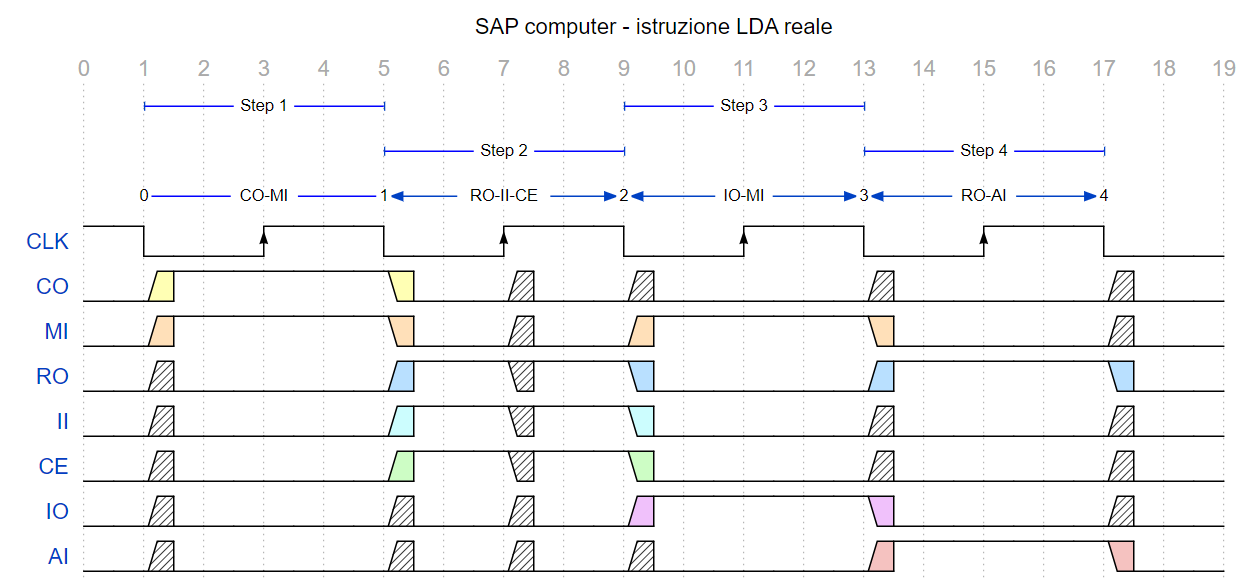
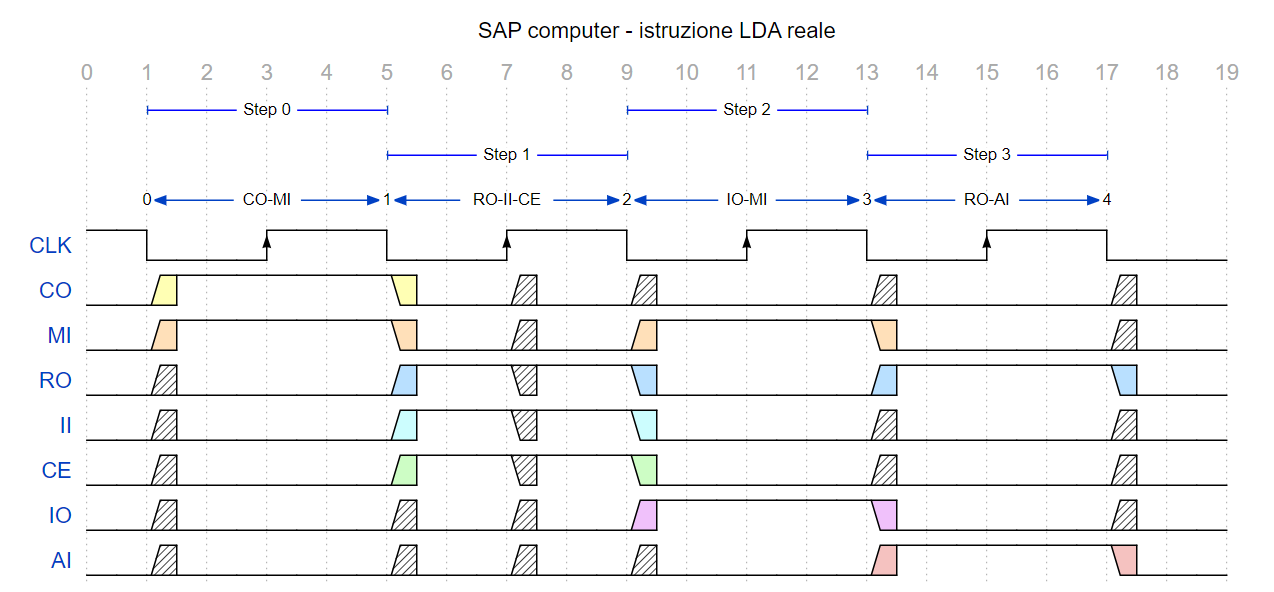
Up0date LDA reale

diff --git a/docs/_docs/40-control.md b/docs/_docs/40-control.md
@@ -249,7 +249,6 @@ Si può notare che tutti i cambi di stato dei segnali avvengono in corrispondenz
 
 [![SAP computer - istruzione LDA ideale](../../assets/control/40-wavedrom-sap-lda-ideale.png "SAP computer - istruzione LDA ideale"){:width="90%"}](../../assets/control/40-wavedrom-sap-lda-ideale.png)
 
-![Alt text](image.png)
 *SAP computer - istruzione LDA ideale*.
 
 Questo è quando accade in un mondo ideale.
@@ -261,11 +260,52 @@ Il grafico cambia decisamente aspetto andando ad aggiungere i segnali spuri dovu
 
 In tutti questi momenti di variazione degli indirizzi di ingresso delle EEPROM, i segnali in uscita sono instabili.
 
+![Alt text](image.png)
+
 [![SAP computer - istruzione LDA reale](../../assets/control/40-wavedrom-sap-lda-reale.png "SAP computer - istruzione LDA reale"){:width="90%"}](../../assets/control/40-wavedrom-sap-lda-reale.png)
 
-Tutti questi segnali spuri generalmente non sono un problema per il SAP, perché le microistruzioni scrivono su registri tipo D <a href="https://www.ti.com/lit/ds/sdls067a/sdls067a.pdf" target="_blank">74LS173</a> attivati al Rising Edge, quando i segnali hanno avuto tempo a sufficienza per stabilizzarsi. Ad esempio, il glitching del segnale MI non è fonte di problemi, perché il 173 memorizza nuovi valori con il segnale attivo **e** il Rising Edge, cioè quando MI è ormai stabile e non c'è rischio di caricare dati non corretti.
+Tutti questi segnali spuri generalmente non sono un problema per il SAP, perché le microistruzioni scrivono su registri tipo D <a href="https://www.ti.com/lit/ds/sdls067a/sdls067a.pdf" target="_blank">74LS173</a> attivati al Rising Edge, quando i segnali hanno avuto tempo a sufficienza per stabilizzarsi. Ad esempio, il glitching di MI non è fonte di problemi, perché il '173 memorizza nuovi valori con MI attivo ***e*** il Rising Edge del clock, cioà quando il segnale è ormai stabile e non c'è rischio di caricare dati non corretti.
+
+Possiamo riprendere ora la domanda segnalata in precedenza in questa sezione: Quali sono le possibili conseguenze del caricamento dell'IR al Rising Edge del clock?
+
+Se nel computer sono presenti registri con il segnale di clock come unico controllo di input, il caricamento al Rising Edge può essere effettuato realizzando un LINK logico tra clock e segnale di caricamento dedicato.
+
+Ad esempio, nell'NQSAP abbiamo i registri D, X e Y realizzati con '574 e NOR.
+
+
+
+Se il fenomeno non viene gestito, i segnali spuri possono generare risultati indesiderati, dagli impulsi di clock non voluti nel caso si usino gate per gestire l'enable nei chip che ne sono sprovvisti (vedi il [registro B](../alu/#lalu-dellnqsap) nell'ALU dell'NQSAP), fino all'attivazione contemporanea di più 
+
+
+
+
+
+
+
+
+
+
+
+
+
+
+
+
 
 da aggiungere:  In addition, the SAP-1 also drives address lines with the outputs of the Flags Register, so this causes uncertainty on any rising edge that modifies the flags.
+
+
+Unlike the 74LS173 registers, some chips do not have two independent lines for Load Enable and CLK. Instead, a single pin is pulsed and the chip loads when a clock pulse edge is detected. Examples in the NQSAP-PCB design are the static RAM, the 74HCT193 counters used by the Stack Pointer, and the 74HCT74 flip flops used to store the flags. For these chips, a clock signal is generated by ANDing a control signal with the system clock. This produces a pulse whenever the signal is asserted and the CLK is high.
+
+The timing diagram below shows a control clock pulse being generated in instruction cycle T3. The control signal is asserted at marker 13 and the clock pulse begins at marker 15.
+
+Instruction cycle with control clock
+
+Note that the signal uncertaintly at marker 13 does not cause a problem because the clock signal is still low at that point, so the state of the control signal does not matter. Similarly, none of the other EEPROM glitching on the falling edge of the clock causes an issue.
+
+The EEPROM glitch behavior does cause a problem in instruction step T1 at marker 7. This is the point where the Instruction Register is loaded, and that causes the EEPROM address to change on the positive edge of the system clock. With the CLK signal high, any glitch on the control line will produce one or more brief control clock pulses that could cause their register to idadvertantly load a value from the bus.
+
+In the SAP-1 design, the flag outputs also drive microcode EEPROM address lines to do conditional jumps, so the glitch would also be a problem after the rising edge clock of any instruction step that loads new flag values.
 
 
 
@@ -276,6 +316,8 @@ da aggiungere:  In addition, the SAP-1 also drives address lines with the output
 Per indirizzare i problemi di glitching Tom ha bufferizzato l'IR, cioè due FF da 8 registri in cascata, così il primo viene aggior  to al normale caricamento dell'IR (che corrisponderebbe a T7 (step 1), ma causando un glitch sulla ROM)… invece di collegare il FF agli ingressi delle ROM, viene collegato a un altro FF che viene caricato col Falling Edge del CLK / Rising Edge del CLK, così le uscite delle ROM vengono aggiornate alla fine della microistruzione quando i segnali sono stabili 😁
 
 **devo spiegare il funzionamento dell'IR**, Riprendendo spunto dal fatto che il registro delle istruzioni questa volta è bufferizzato.
+
+---
 
 \* I componenti sequenziali producono un output che dipende non solo dagli ingressi attuali, ma anche dallo stato precedente, a differenza dei circuiti combinatori che dipendono esclusivamente dagli ingressi presenti.
 
